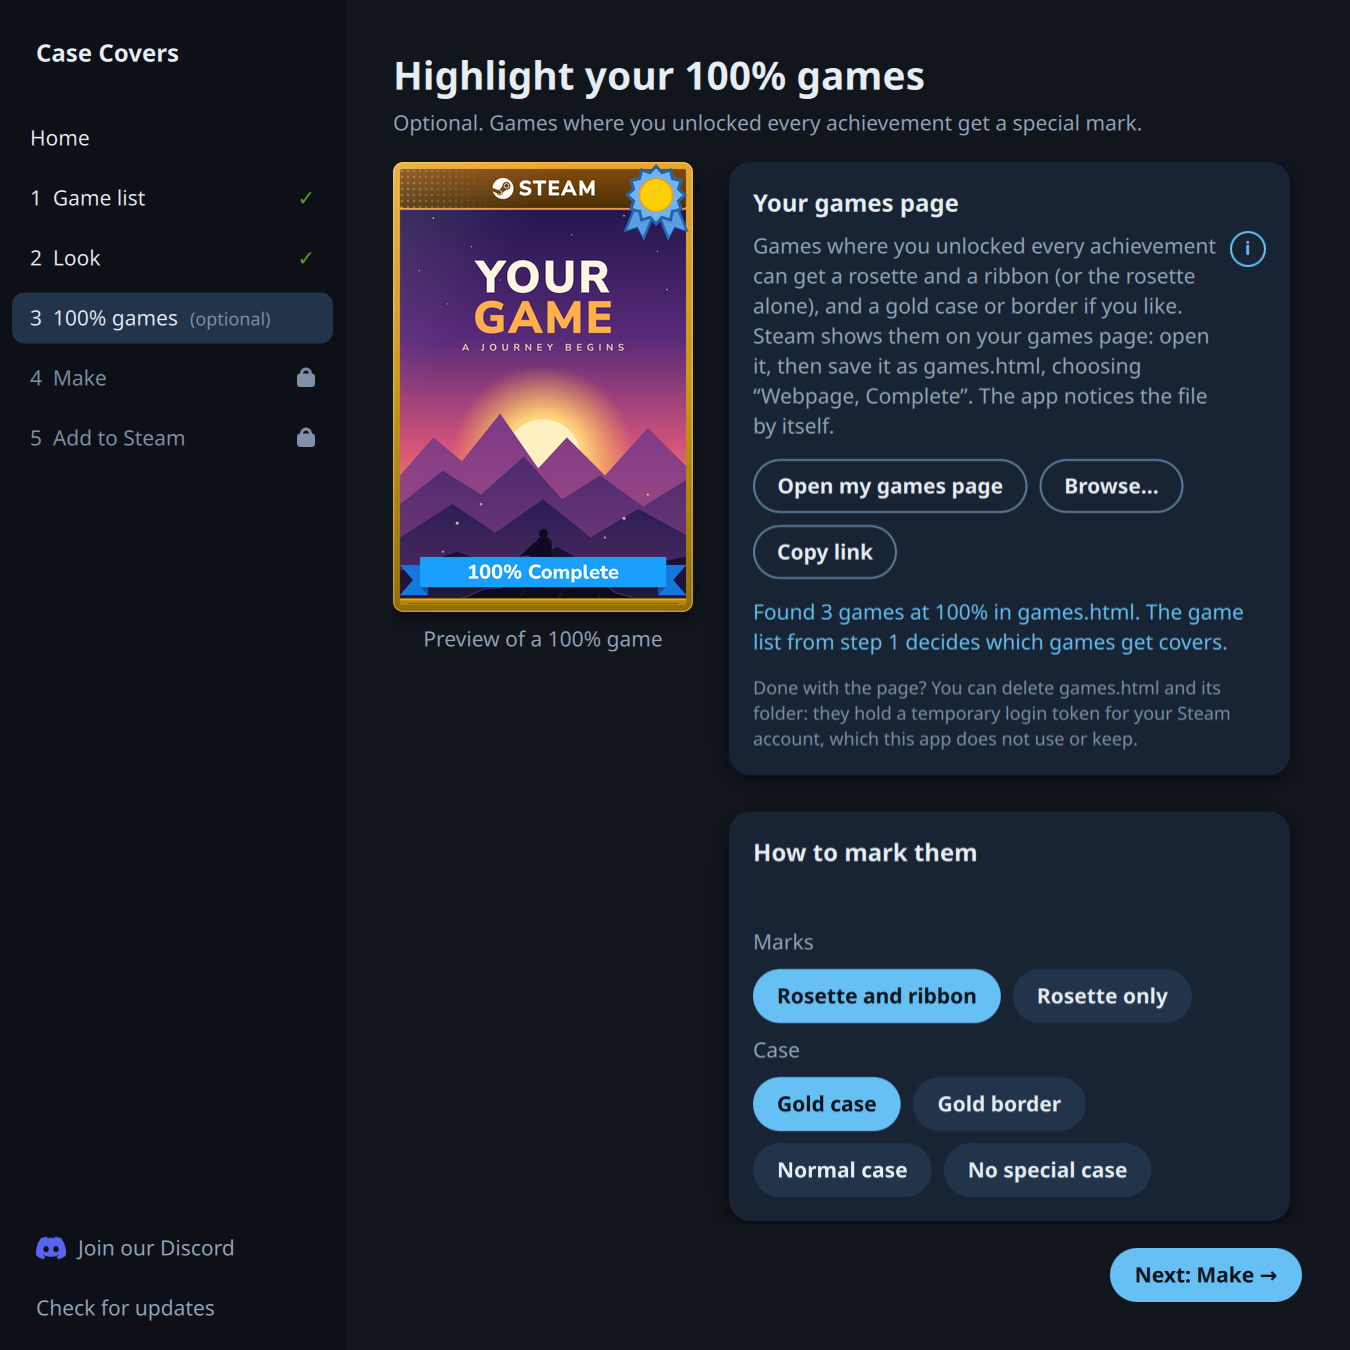
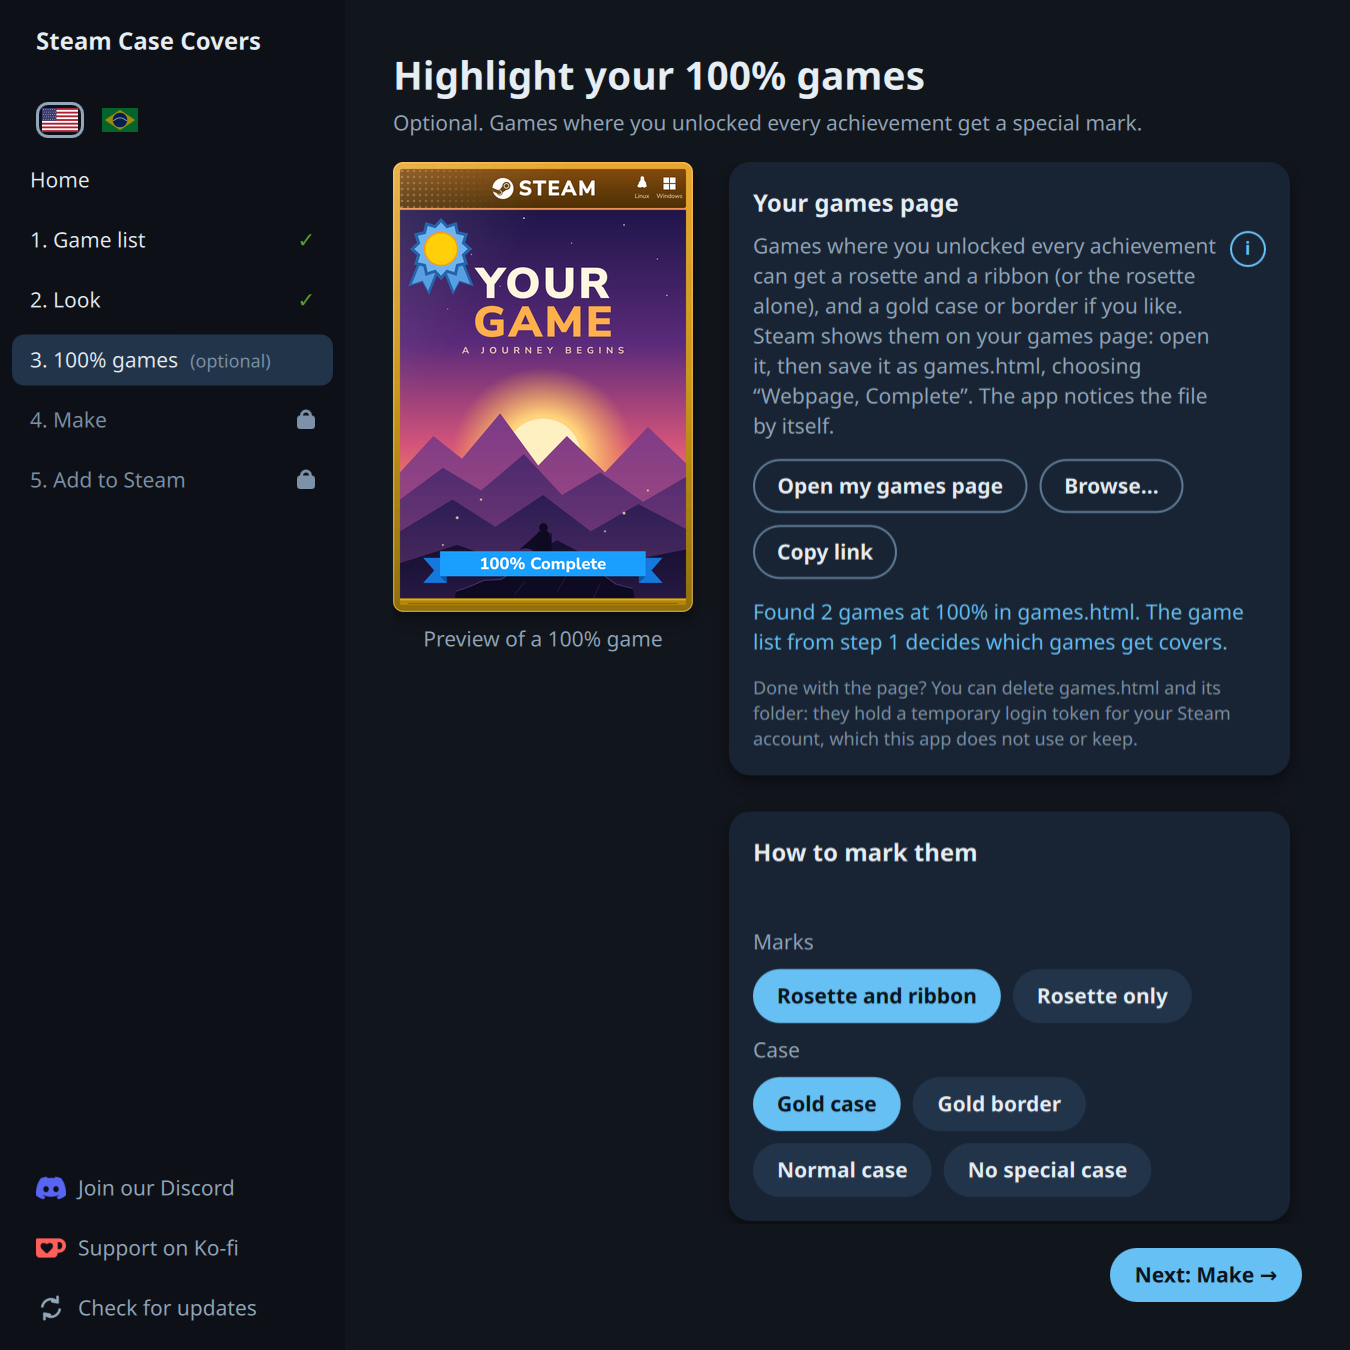
docs: new README screenshots of the Qt window, and the Brazilian Portuguese feature line

diff --git a/README.md b/README.md
@@ -27,7 +27,7 @@
 </p>
 
 <p align="center">
-  <a href="https://github.com/diegobergonsi/steam-case-covers/raw/main/assets/screenshot-home.png"><img src="assets/screenshot-home.png" width="280" alt="Home: a welcome, the list of steps on the left and the Undo section"></a>
+  <a href="https://github.com/diegobergonsi/steam-case-covers/raw/main/assets/screenshot-home.png"><img src="assets/screenshot-home.png" width="280" alt="Home: the steps on the left with the language flags, Pick games by hand, and the Undo section"></a>
   <a href="https://github.com/diegobergonsi/steam-case-covers/raw/main/assets/screenshot-look.png"><img src="assets/screenshot-look.png" width="280" alt="The Look step: a preview of the case and the colour choices"></a>
   <a href="https://github.com/diegobergonsi/steam-case-covers/raw/main/assets/screenshot-100.png"><img src="assets/screenshot-100.png" width="280" alt="The 100% games step: a gold case with a rosette and ribbon, and the choices to mark those games"></a>
   <br>
@@ -199,6 +199,7 @@ Good to know:
 
 **The app itself**
 - Works with the keyboard, scales on high-DPI screens and fits small screens like the Steam Deck's
+- English and Brazilian Portuguese: the app starts in your system's language, and two small flags under the name switch it at any time (the command line and this README stay in English)
 - A "Check for updates" button, only when you click it: it asks GitHub for the newest version and never downloads or installs anything
 - Free software: no ads, no account, no telemetry
 
